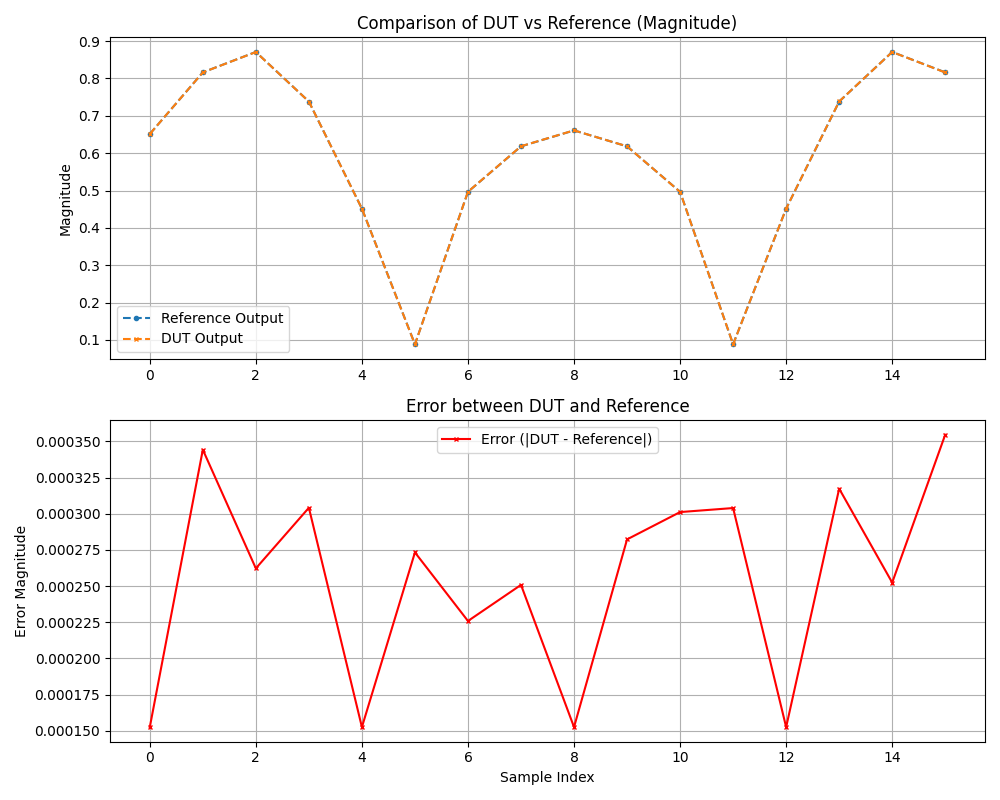
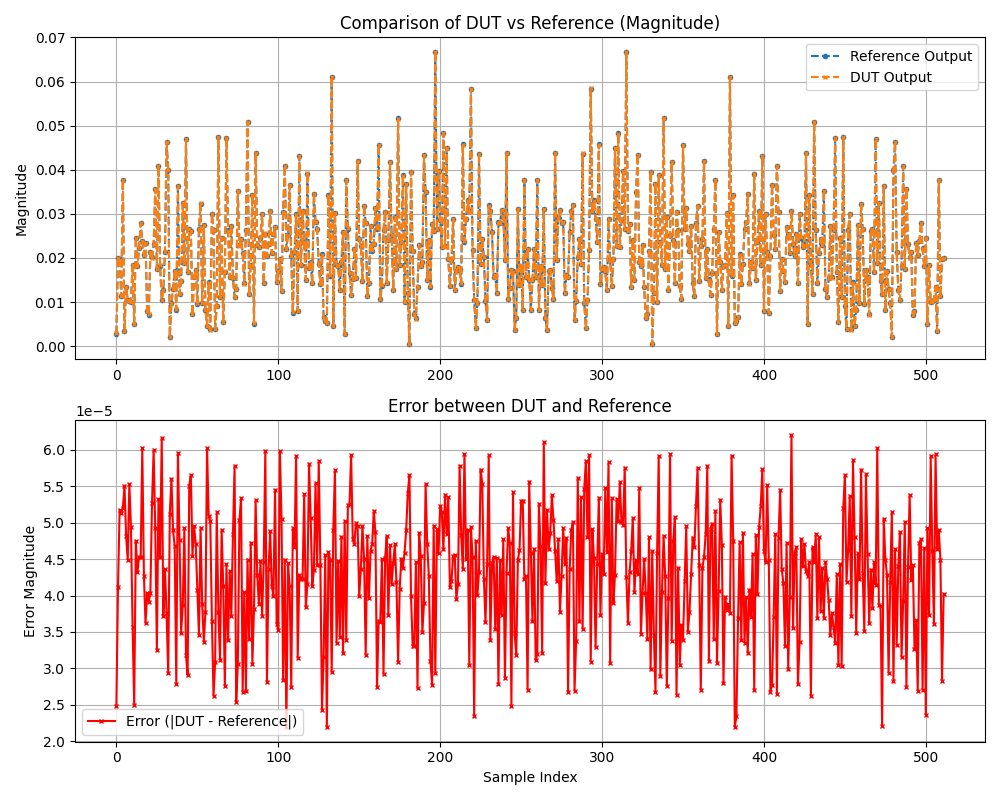
Get working model
add scale of result in scoreboard and accumulation unit

diff --git a/verif/scoreboard.py b/verif/scoreboard.py
@@ -73,6 +73,8 @@ class FftRadix4Scoreboard:
         
         data = [(x if x < (1 << 15) else x - (1 << 16)) / (2**15) for x in self._input_data]
         fft_ = np.fft.fft(data)
+        for x in range(self.num_samples):
+          fft_[x] = fft_[x] / self.num_samples
         self._ref_output_data = fft_
 
     def compare_to_dut_output(self, dut_output_data):
@@ -122,7 +124,7 @@ class FftRadix4Scoreboard:
         print(f"MSE: {mse:.6f}") #Mean Squared Error - średni błąd kwadratowy
         print(f"MAE: {mae:.6f}") #Mean Absolute Error - średnia odchyła
         print(f"Max Error: {max_error:.6f}") 
-        assert  mse <= 1, f"MSE is too big"
+        assert  mse <= 0.002, f"MSE is too big"
         return mse, mae, max_error  # Możesz zwrócić wartości, jeśli chcesz je dalej analizować
 
     

diff --git a/verif/generator.py b/verif/generator.py
@@ -19,7 +19,8 @@ class Generator:
   def generate(self, samp_num):
     data = []
     for _ in range(samp_num):
-      data.append(self.random.uniform(-0.3,0.3)) 
+      data.append(self.random.uniform(-1,1)) 
+      #data.append(0.5) for debug purpose
     scale = 2**(16 - 1) - 1
     fixed_point_values = []
     for value in data:

diff --git a/tests/test_mac.py b/tests/test_mac.py
@@ -19,8 +19,8 @@ from verif.scoreboard import FftRadix4Scoreboard
 
 @cocotb.test()
 async def test_mac(dut):
-    __input_samp_num__ = 16
-    __input_burst_num__ = 16
+    __input_samp_num__ = 512
+    __input_burst_num__ = 256
 
     clock = Clock(dut.clk, 10, units='ns')
     cocotb.start_soon(clock.start())
